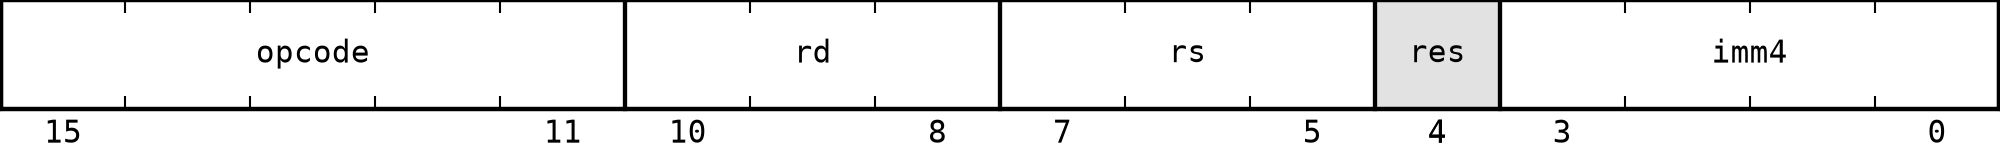
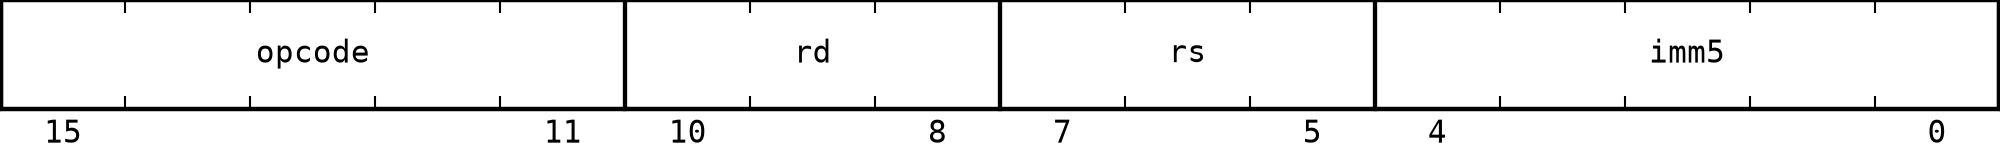
shifts

diff --git a/A16/02_instruction_set.md b/A16/02_instruction_set.md
@@ -214,11 +214,11 @@ CMPI rd, imm8               // rd - zext(imm8)
 `SLL` performs a logical left shift of the source register by an immediate amount.
 
 ```text
-SLL rd, rs, imm4            // rd <- rs << imm4
+SLL rd, rs, imm5            // rd <- rs << imm5
 ```
 
 > [!NOTE]
-> Shift instructions use only a 4-bit immediate because this is sufficient to encode all meaningful shift amounts in a 16-bit architecture. A 4-bit field allows values from 0 to 15, which covers the full useful shift range for a 16-bit operand.
+> Shift instructions use a 5-bit immediate with a range from 0 to 31. For shift amounts from 16 to 31, `SLL` and `SRL` produce zero, while `SRA` produces either `0x0000` or `0xFFFF` according to the original sign bit.
 
 | Flag | Value |
 | --- | --- |
@@ -232,7 +232,7 @@ SLL rd, rs, imm4            // rd <- rs << imm4
 `SRL` performs a logical right shift of the source register by an immediate amount.
 
 ```text
-SRL rd, rs, imm4            // rd <- zext(rs) >> imm4
+SRL rd, rs, imm5            // rd <- zext(rs) >> imm5
 ```
 
 | Flag | Value |
@@ -247,7 +247,7 @@ SRL rd, rs, imm4            // rd <- zext(rs) >> imm4
 `SRA` performs an arithmetic right shift of the source register by an immediate amount.
 
 ```text
-SRA rd, rs, imm4            // rd <- sext(rs) >> imm4
+SRA rd, rs, imm5            // rd <- sext(rs) >> imm5
 ```
 
 | Flag | Value |

diff --git a/A16/03_instruction_formats.md b/A16/03_instruction_formats.md
@@ -86,8 +86,7 @@ Used by `SLL`, `SRL`, and `SRA`.
 | `opcode` | `15:11` | Primary opcode |
 | `rd` | `10:8` | Destination register |
 | `rs` | `7:5` | Source register |
-| `reserved` | `4` | Reserved bits |
-| `imm4` | `3:0` | Shift amount |
+| `imm5` | `4:0` | Shift amount |
 
 ## Absolute jump
 
